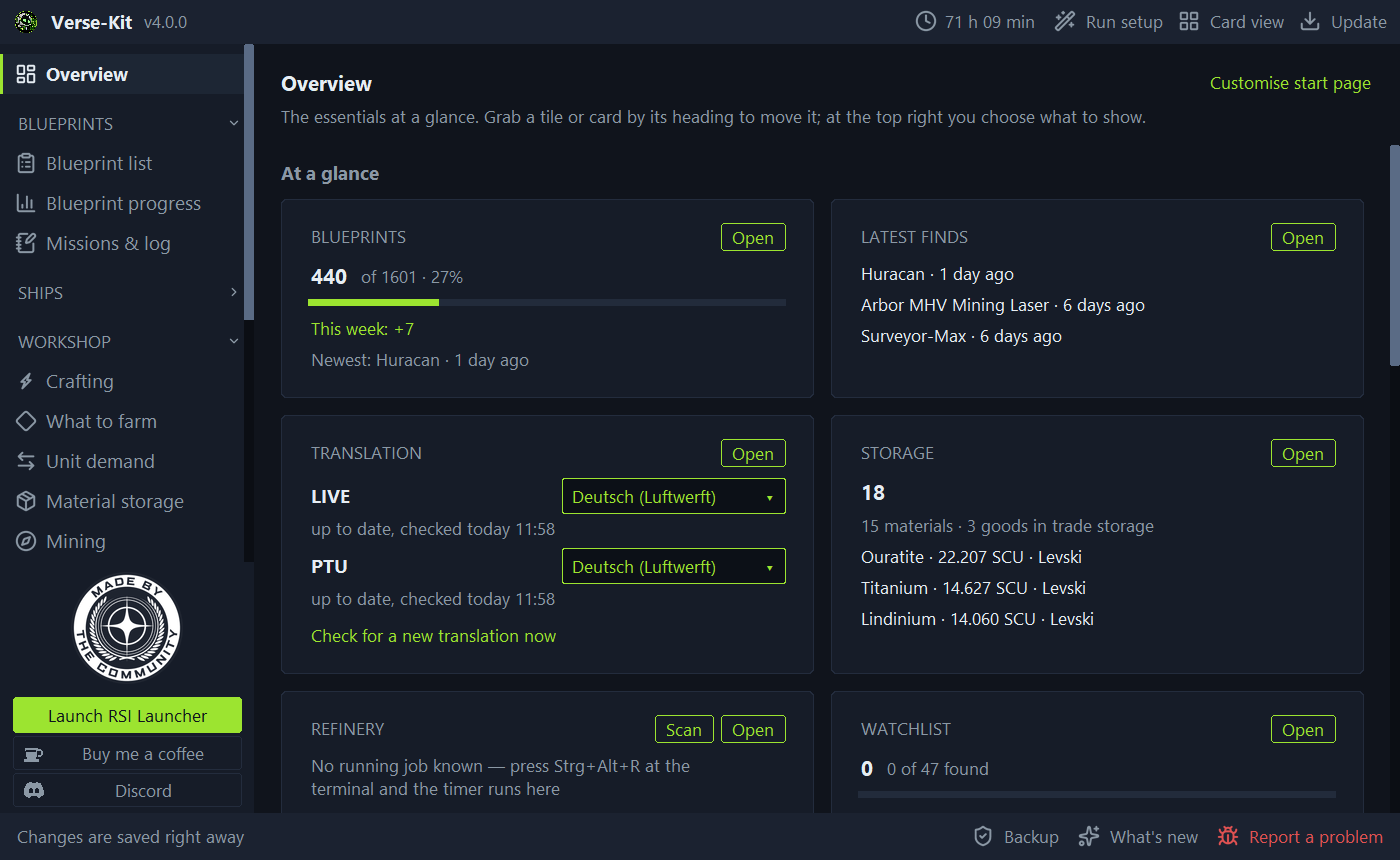
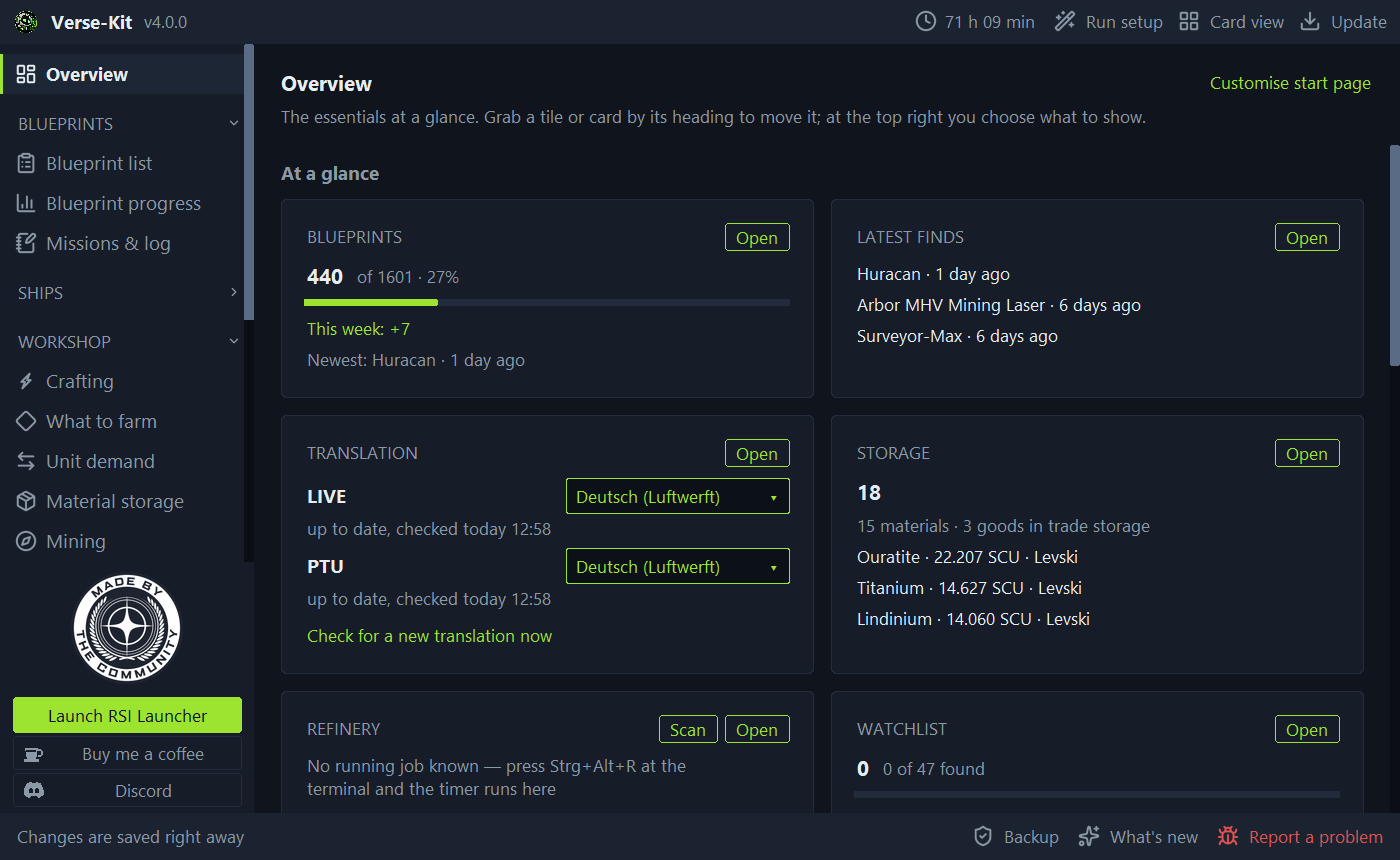
v4.0.0: Kacheln mit 12 px Innenabstand, damit die Uebersetzungs-Auswahl bei grosser Schrift ganz bleibt

diff --git a/scbp/overview.py b/scbp/overview.py
@@ -181,6 +181,7 @@ def builders():
 ORDER_SECTIONS_SETTING = 'startseite_zuerst'
 # Mindestbreite einer Kachel bei Schriftstufe 0.
 TILE_MIN_WIDTH = 300
+TILE_PAD = 12
 
 
 def sections_first():
@@ -603,7 +604,10 @@ def _card(window, cell, title_key, target=None, extra=None):
     # 2 px Rand: dort leuchtet die Zielkachel beim Ziehen (`_draggable`).
     card.holder.pack(fill='both', expand=True, padx=2, pady=2)
     head = tk.Frame(card, bg=theme.SURFACE)
-    head.pack(fill='x', padx=16, pady=(12, 6))
+    # 12 px Innenabstand: Der Inhalt rückt schon um die Rundung (12 px) ein,
+    # zusammen 24 px bis zum Rand. Mehr Rand schneidet bei großer Schrift die
+    # Auswahlfelder der Übersetzungs-Kachel ab.
+    head.pack(fill='x', padx=TILE_PAD, pady=(12, 6))
     cell.tile_head = head
     tk.Label(head, text=t(title_key).upper(), bg=theme.SURFACE, fg=theme.SUB,
              font=window.f_small, anchor='w').pack(side='left')
@@ -623,7 +627,7 @@ def _card(window, cell, title_key, target=None, extra=None):
         more.pack(side='right', padx=(0, 6))
         cell.extra_button = more
     body = tk.Frame(card, bg=theme.SURFACE)
-    body.pack(fill='both', expand=True, padx=16, pady=(0, 12))
+    body.pack(fill='both', expand=True, padx=TILE_PAD, pady=(0, 12))
     return body
 
 

diff --git a/tools/selbsttest.py b/tools/selbsttest.py
@@ -39512,6 +39512,15 @@ def _pruefung_422():
                    'Übersetzungs-Kachel: Auswahl auch bei großer Schrift ganz '
                    'zu sehen (%d Auswahlfelder, gekürzt: %r)'
                    % (len(_auswahl422), _knapp422))
+            # Unabhängig von der Schrift des Systems: Rand der Zelle (2 px),
+            # Rundung und Innenabstand zusammen höchstens 26 px je Seite.
+            # Unter Linux ist die Schrift breiter, dort schnitt schon ein
+            # Rand von 30 px ab.
+            _zeile422 = _auswahl422[0].master if _auswahl422 else None
+            pruefe(_zeile422 is not None
+                   and _zeile422.winfo_width() >= 440 - 2 * 26,
+                   'Kachel-Inhalt nutzt die Breite: Zeile %s px in 440 px'
+                   % (_zeile422.winfo_width() if _zeile422 else '?'))
         finally:
             _f422.f_bold, _f422.f_small = _alt_fonts422
             _zelle422.destroy()
